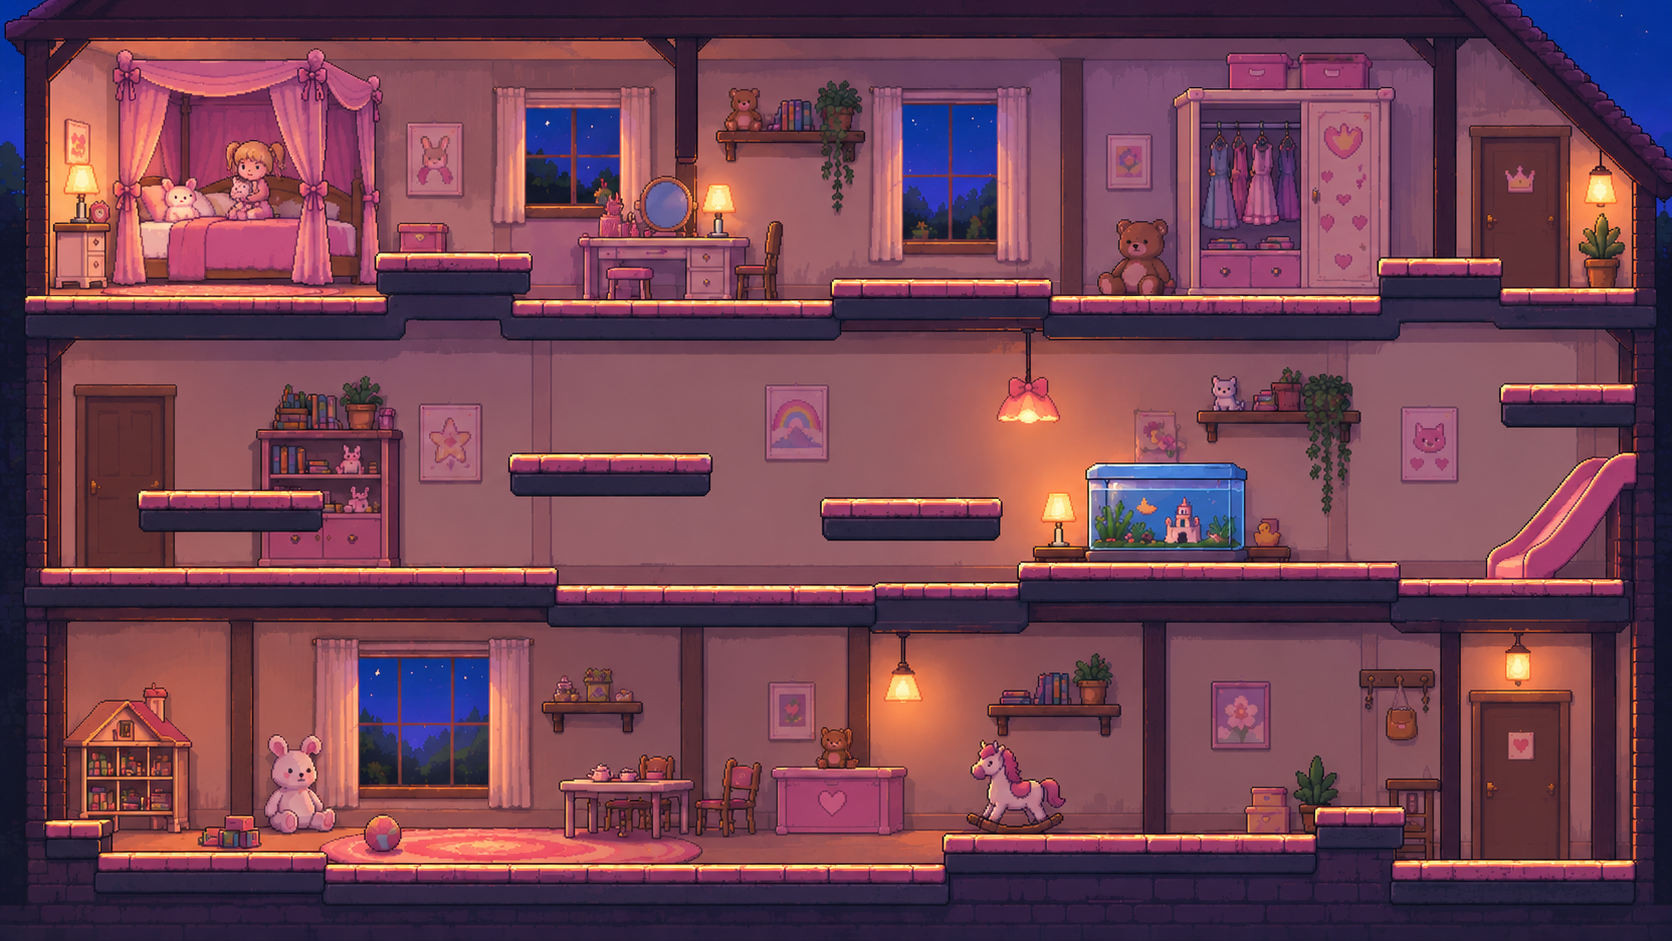
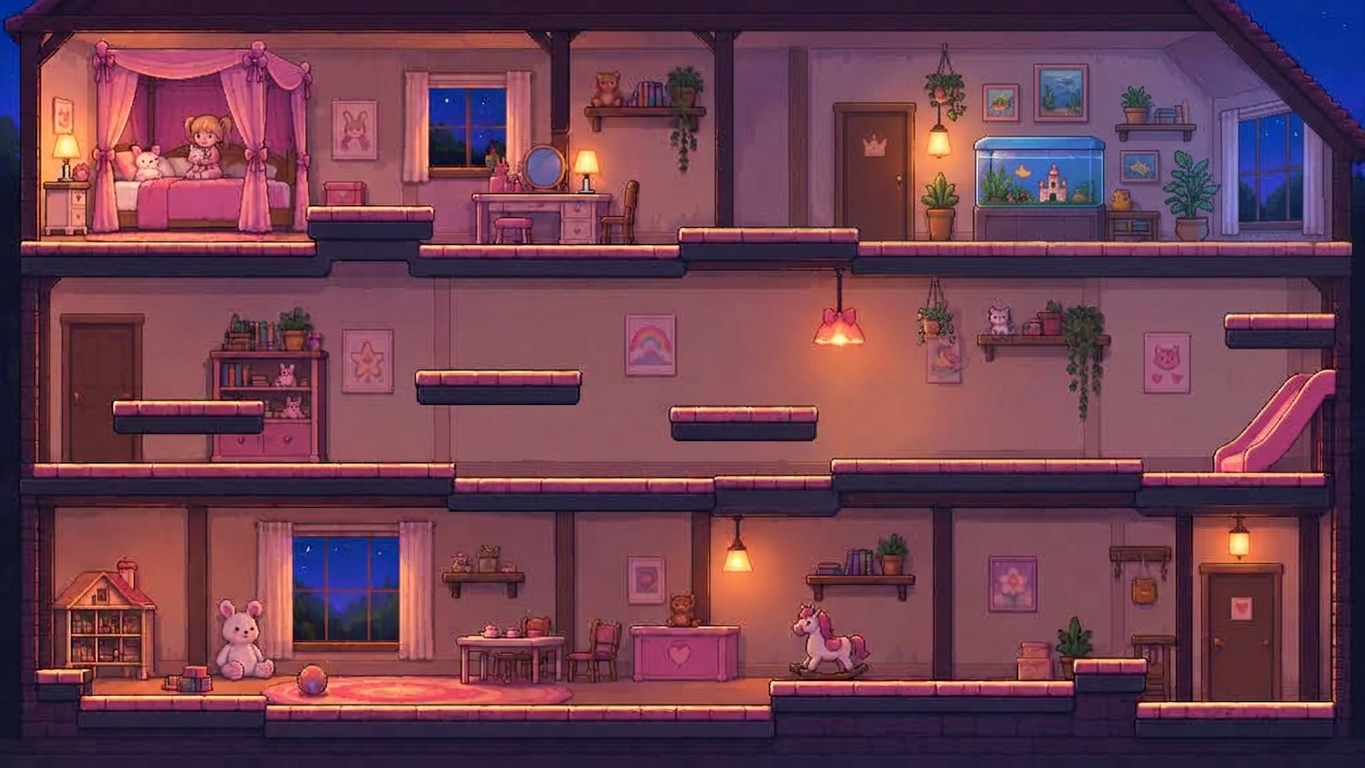
feat(niveau 3): la petite fille qui poursuit, et le nouveau fond
Refonte du niveau 3 selon la nouvelle idee : plus d'objet a pousser. Le but est
d'atteindre l'aquarium (en haut a droite) et de s'y noyer (E). Mais la petite
fille poursuit le chat sans relache : des qu'elle le rattrape, elle le maquille
(le chat vire au rose) et le balance a l'autre bout de la piece.

- nouveau fond assets/images/fonds/niveau3.png (1365x768), geometrie relevee
  sur ses plateformes roses.
- assets/images/fille/ : marche gauche/droite/face/dos extraites des planches
  fournies (2x2 par direction).
- game/entites.py : classe Fille, poursuite continue + attrape (maquille +
  balance a l'autre bout), avec cooldown avant de re-attraper.
- game/jeu.py, game/niveau.py : la fille est creee, animee, dessinee.
- piege 'direct' : E sur l'aquarium noie directement, cale sur l'aquarium deja
  peint dans le fond (pas de doublon).
- niveau 3 : la fille demarre a l'autre bout, deux pousseurs, textes adaptes.

25 tests moteur au vert.

diff --git a/game/jeu.py b/game/jeu.py
@@ -84,6 +84,13 @@ class VueJeu(arcade.View):
         self.sortie = self.niveau.trouver_zone("sortie")
         self._construire_faux_pieges()
 
+        # la fille (niveau 3) : elle poursuit et rejette le chat
+        self.fille = None
+        if getattr(self.niveau, "fille", None) is not None:
+            from game.entites import Fille
+            x, y = self.niveau.fille
+            self.fille = Fille(x, y)
+
         # le chat noir (niveau 2) : la sortie, E dessus fait griller une vie
         self.chat_noir = None
         if getattr(self.niveau, "chat_noir", None) is not None:
@@ -165,6 +172,10 @@ class VueJeu(arcade.View):
         self._vivre_la_horde(delta_time)
         if self.chat_noir is not None:
             self.chat_noir.mettre_a_jour(delta_time)
+        if self.fille is not None and self.fille.mettre_a_jour(delta_time, self.chat):
+            self.afficher("Elle t attrape, te maquille et te balance a l autre bout.")
+            self.effets.pouf(self.chat.center_x, self.chat.top, (255, 180, 210), 10)
+            self.minuteur_deguisement = 4.0
         for pousseur in self.pousseurs:
             if pousseur.mettre_a_jour(delta_time, self.chat):
                 self.effets.pouf(self.chat.center_x, self.chat.center_y, (200, 210, 235), 8)
@@ -198,7 +209,8 @@ class VueJeu(arcade.View):
                     and arcade.check_for_collision(self.chat, zone)):
                 return True
         if self.gamelle is not None and arcade.check_for_collision(self.chat, self.gamelle):
-            return True
+            if getattr(self.niveau, "piege_direct", False) or self.gamelle.remplie:
+                return True
         if self.chat_noir is not None and arcade.check_for_collision(self.chat, self.chat_noir):
             return True
         depart = self.chat.center_x
@@ -468,6 +480,8 @@ class VueJeu(arcade.View):
         self.horde.draw(pixelated=True)
         if self.chat_noir is not None:
             arcade.draw_sprite(self.chat_noir, pixelated=True)
+        if self.fille is not None:
+            arcade.draw_sprite(self.fille, pixelated=True)
         if self.medecin is not None:
             arcade.draw_sprite(self.medecin, pixelated=True)
             if self.medecin.endormi:
@@ -532,8 +546,11 @@ class VueJeu(arcade.View):
         if self.chat_noir is not None and arcade.check_for_collision(self.chat, self.chat_noir):
             self.griller_une_vie(self.niveau.message_mort or "emporte par le chat noir")
             return
-        if self.gamelle is not None and self.gamelle.remplie:
-            if arcade.check_for_collision(self.chat, self.gamelle):
+        if self.gamelle is not None and arcade.check_for_collision(self.chat, self.gamelle):
+            if getattr(self.niveau, "piege_direct", False):
+                self.griller_une_vie(self.niveau.message_mort or "le piege")
+                return
+            if self.gamelle.remplie:
                 self.manger()
                 return
         for zone in self.faux_pieges:

diff --git a/game/maison.py b/game/maison.py
@@ -79,23 +79,30 @@ _M2 = _trois_etages(
     },
 )
 
-# --- niveau 3 : la chambre de l'enfant (1672 x 941) -------------------------
-_M3 = _trois_etages(
-    "fonds/niveau3.png", 1672, 941, sols=(830, 590, 300),
-    plats=[
-        (360, 300, 560), (820, 100, 1020), (1380, 270, 1580),
-        (140, 460, 340), (460, 460, 660), (820, 490, 1020), (1180, 400, 1380),
-        (300, 700, 500), (1150, 700, 1400),
+# --- niveau 3 : la chambre de l'enfant (1365 x 768) ------------------------
+_M3 = dict(
+    fond="fonds/niveau3.png", largeur=1365, hauteur=768,
+    solides=[
+        (24, 700, 1340, 730), (0, 20, 24, 740), (1340, 20, 1365, 740), (0, 10, 1365, 24),
+    ],
+    plateformes=[
+        (24, 235, 760), (810, 235, 1340),        # plancher etage 2 (coupe au milieu)
+        (24, 465, 1340),                          # plancher etage 1
+        (310, 215, 470), (620, 235, 770),         # plateformes etage 2
+        (100, 430, 260), (400, 380, 580), (660, 415, 820),   # plateformes etage 1
+        (980, 320, 1150), (1230, 320, 1340),
+        (880, 660, 1130),                         # plateforme RDC droite
     ],
     ancres={
-        "salon": (700, 830), "cuisine": (300, 830), "salle_droite": (1450, 830),
-        "gamelle_bas": (1500, 830), "canape": (400, 700), "tv": (900, 830),
-        "frigo": (200, 590), "sdb": (1050, 500), "chatterie": (1450, 590),
-        "planche_sdb": (250, 460), "planche_centre": (560, 460),
-        "planche_milieu_g": (920, 490), "planche_milieu_d": (1280, 400),
-        "planche_salon": (400, 300), "arbre_bas": (1480, 270), "arbre_haut": (920, 100),
-        "chambre": (300, 300), "lit": (250, 280), "couloir": (700, 300),
-        "armoire": (460, 300), "salle_haut": (1480, 300), "paniere": (1480, 270),
+        "salon": (300, 700), "cuisine": (500, 700), "salle_droite": (1000, 660),
+        "gamelle_bas": (1000, 660), "canape": (1000, 660), "tv": (700, 700),
+        "frigo": (180, 430), "sdb": (490, 380), "chatterie": (1060, 320),
+        "planche_sdb": (490, 380), "planche_centre": (740, 415),
+        "planche_milieu_g": (180, 430), "planche_milieu_d": (1290, 320),
+        "planche_salon": (740, 415), "arbre_bas": (1060, 320), "arbre_haut": (390, 215),
+        "chambre": (200, 235), "lit": (200, 235), "couloir": (690, 235),
+        "armoire": (390, 215), "salle_haut": (1000, 235), "paniere": (1010, 235),
+        "aquarium": (1010, 200),
     },
 )
 

diff --git a/game/entites.py b/game/entites.py
@@ -104,3 +104,56 @@ class ChatNoir(arcade.Sprite):
     def mettre_a_jour(self, delta_time):
         self._t += delta_time
         self.texture = self._frames[int(self._t * 8) % len(self._frames)]
+
+
+class Fille(arcade.Sprite):
+    """La petite fille du niveau 3 : elle poursuit le chat sans relache.
+
+    Des qu'elle le rattrape, elle le maquille (le chat vire au rose), puis le
+    balance a l'autre bout de la piece. Elle ne tue pas -- elle empeche juste
+    d'atteindre l'aquarium. Il faut la semer, ou aller plus vite qu'elle.
+    """
+
+    def __init__(self, x, y, vitesse=3.4):
+        self._anim = {}
+        for nom in ("droite", "gauche"):
+            frames = []
+            i = 0
+            while True:
+                chemin = C.DOSSIER_IMAGES / "fille" / f"{nom}_{i}.png"
+                if not chemin.is_file():
+                    break
+                frames.append(arcade.load_texture(chemin))
+                i += 1
+            self._anim[nom] = frames
+        base = self._anim["droite"] or [arcade.Texture.create_empty("f", (32, 48), (150, 80, 160))]
+        self._anim.setdefault("droite", base)
+        self._anim.setdefault("gauche", base)
+        super().__init__(self._anim["droite"][0], scale=2.4, center_x=x)
+        self.bottom = y
+        self.sol = y
+        self.vitesse = vitesse
+        self._t = 0.0
+        self._recharge = 0.0
+
+    def mettre_a_jour(self, delta_time, chat):
+        self._t += delta_time
+        self._recharge = max(0.0, self._recharge - delta_time)
+
+        # elle marche vers le chat, sans relache
+        direction = 1 if chat.center_x > self.center_x else -1
+        self.center_x += self.vitesse * direction
+        self.bottom = self.sol
+
+        jeu = self._anim["droite"] if direction > 0 else self._anim["gauche"]
+        self.texture = jeu[int(self._t * 8) % len(jeu)]
+
+        # elle rattrape le chat : maquillage + envoi a l'autre bout
+        if self._recharge <= 0 and chat.vivant and arcade.check_for_collision(self, chat):
+            chat.color = (255, 150, 200)                 # maquille en rose
+            loin = 1 if chat.center_x < self.center_x else -1
+            chat.change_x = 15 * loin                    # balance a l'autre bout
+            chat.change_y = 13
+            self._recharge = 1.2
+            return True
+        return False

diff --git a/game/les_niveaux.py b/game/les_niveaux.py
@@ -65,17 +65,17 @@ NIVEAUX = [
     ),
     dict(
         titre="La chambre de l enfant riche", maitre="l enfant",
-        aide="Le jouet de bain est sur le frigo. Fais-le tomber dans l aquarium de la cuisine.",
-        message_piege="L aquarium deborde. L eau est froide.",
+        aide="L aquarium est en haut a droite. Rejoins-le et fais E -- mais la petite te poursuit et te rejette sans cesse.",
+        message_piege="",
         message_mort="Noye dans l aquarium. Elle croira a un jeu.",
-        message_attente="L aquarium est paisible. Le jouet de bain d abord.",
+        message_attente="",
         depart="salon",
+        piege="aquarium", piege_image="aucune", piege_largeur=120, piege_direct=True,
+        fille="salle_droite",
         pousseurs=[
-            dict(min="couloir", max="chambre", vitesse=2.2),
-            dict(min="canape", max="salle_droite", vitesse=2.4),
+            dict(min="frigo", max="planche_centre", vitesse=2.6),
+            dict(min="chatterie", max="planche_milieu_d", vitesse=2.8, force=17),
         ],
-        objet="frigo", pousse="d", objet_image="jouet_bain",
-        piege="sdb", piege_image="aquarium", piege_largeur=120,
         faux_pieges={
             "e": dict(pos="chambre", declenchement="contact", recharge=9.0,
                       effet="projection", vitesse=(4, 19), image="enfant",

diff --git a/game/niveau.py b/game/niveau.py
@@ -335,8 +335,11 @@ def construire_maison(definition, numero=1) -> Niveau:
     niveau.faux_pieges = definition.get("faux_pieges", {})
     niveau.pousseurs = definition.get("pousseurs", [])
     niveau.horde = definition.get("horde", False)
+    niveau.piege_direct = definition.get("piege_direct", False)
     cn = definition.get("chat_noir")
     niveau.chat_noir = point(cn) if cn else None
+    fl = definition.get("fille")
+    niveau.fille = point(fl) if fl else None
     niveau.fond = maison["fond"]
     niveau.largeur = maison["largeur"] * ech
     niveau.hauteur = maison["hauteur"] * ech
